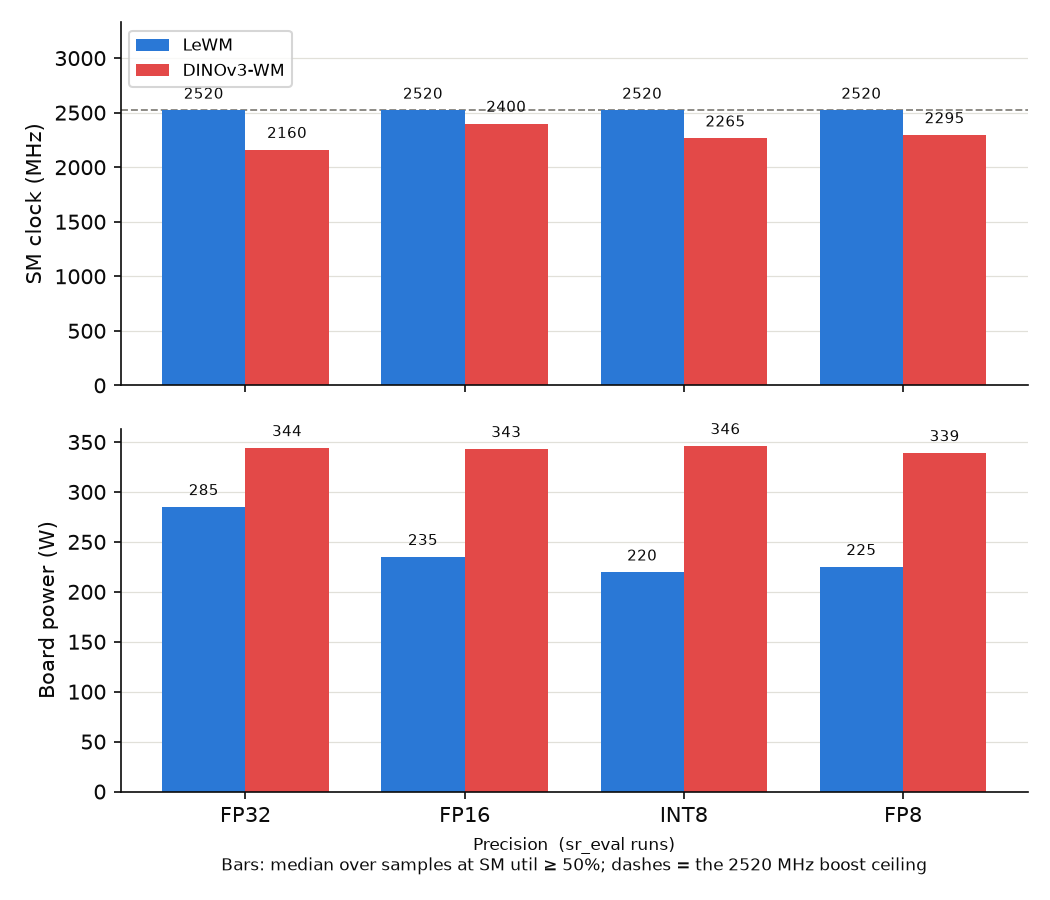
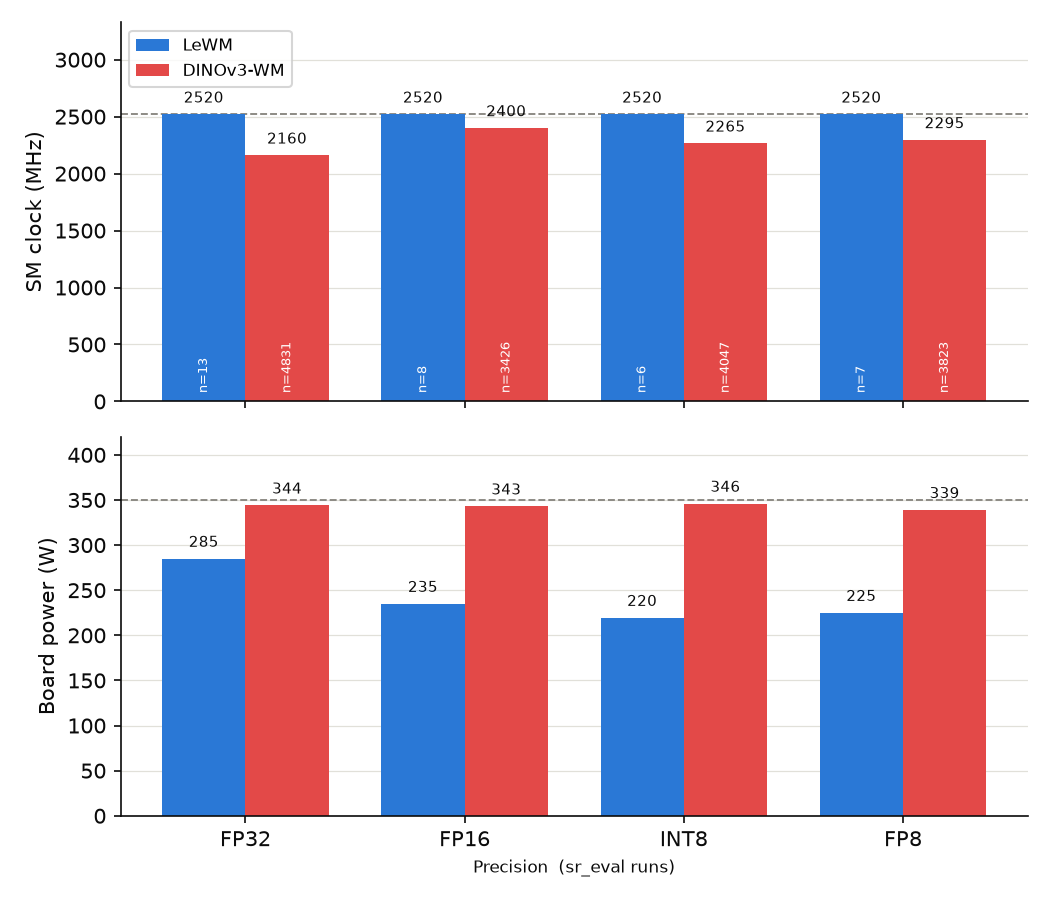
feat(phase7): record confound outcomes in SPEC/architecture/PLAN; power-limit line + busy-n labels on the throttle diag, captionless figures

diff --git a/src/clock_norm.py b/src/clock_norm.py
@@ -36,6 +36,11 @@ The rescaling **over-corrects** (memory-bound and host/Python time do not scale 
 that is the point: the normalized figure is the **maximum plausible correction**, a bound beside
 the measured value, never a point estimate and never a replacement.
 
+On the recorded Phase-5 data the overhead surface is unresolvable by construction for DINO — its
+overhead share of the cycle (1−p ≈ 0.01–0.03) sits below the cycle-vs-component clock mismatch
+(Δf/f_cmp ≈ 0.04–0.07) — so its derived overhead rows flip negative, and LeWM's are blank (component
+runs too short for the 1 Hz sampler). Expected output, not a defect: architecture.md §11.
+
 Which run's clock normalizes which latency follows where the latency was measured: per-cycle rides
 the SR eval-shim run (`*.sr_eval.dmon.log`), the isolated encode/predict engine loops ride the
 benchmark run (`*.benchmark.dmon.log`), each selected at the render's calibration method
@@ -85,6 +90,10 @@ _STATISTIC = (
     f"util-conditioned median SM clock (dmon samples with SM util >= {CLOCK_BUSY_UTIL_PCT}%)"
 )
 _SCALING_MODEL = "T_ref = T * f_measured / f_ref"
+
+# L40S board power limit (W) — the cap the heavier track saturates and trades clock against.
+# Display-only reference line in the throttle diagnostic; it normalizes nothing.
+_POWER_LIMIT_W = 350
 
 # Where the committed display copy of the throttle plot lands (`reports/figs/`), resolved relative
 # to this file so the render does not depend on the working directory.
@@ -548,10 +557,14 @@ def plot_throttle(clocks: dict, run_type: str, out_dir: Path, method: str) -> Pa
 
     Two panels — **SM clock** (the confound) over **power** (its cause) — because the story is
     that the heavier track saturates the board power limit and trades clock for it while the
-    lighter track never approaches the limit. The `f_ref` boost ceiling is drawn as a reference
-    line, so "at the ceiling" vs "throttled below it" is readable without arithmetic. Bars use the
-    measured (util-conditioned) statistic; an UNMEASURED run is labelled as such rather than
-    plotted at some fallback value.
+    lighter track never approaches the limit. The `f_ref` boost ceiling and the board power limit
+    are each drawn as a reference line, so "at the ceiling" vs "throttled below it" and "pinned at
+    the cap" vs "never near it" are readable without arithmetic or knowing the L40S TDP. Bars use
+    the measured (util-conditioned) statistic; an UNMEASURED run is labelled as such rather than
+    plotted at some fallback value. Each measured clock bar carries its busy-sample count `n=…` —
+    the lighter track's eval-shim medians rest on an order of magnitude fewer samples than the
+    heavier track's, and the label keeps that visible instead of rendering both with equal
+    authority.
 
     Composite component-isolation runs are excluded, like everywhere else outside the isolation
     table (architecture.md §9)."""
@@ -567,7 +580,8 @@ def plot_throttle(clocks: dict, run_type: str, out_dir: Path, method: str) -> Pa
     ):
         for i, track in enumerate(report._TRACKS):
             xs = [j + (i - 0.5) * width for j in range(len(precs))]
-            vals = [_summary(clocks, track, p, run_type, method).get(field) for p in precs]
+            runs = [_summary(clocks, track, p, run_type, method) for p in precs]
+            vals = [r.get(field) for r in runs]
             ax.bar(
                 xs,
                 [v or 0.0 for v in vals],
@@ -576,7 +590,7 @@ def plot_throttle(clocks: dict, run_type: str, out_dir: Path, method: str) -> Pa
                 label=report._TRACK_DISPLAY[track],
                 zorder=2,
             )
-            for x, v in zip(xs, vals):
+            for x, v, run in zip(xs, vals, runs):
                 # Value-label every bar: the throttle is a low-tens-of-percent effect, so a
                 # zero-based axis (never truncated for bars) reads it as a small notch. The exact
                 # number belongs on the mark rather than in a truncated axis.
@@ -591,21 +605,35 @@ def plot_throttle(clocks: dict, run_type: str, out_dir: Path, method: str) -> Pa
                     fontsize=7,
                     color=report._MUTED if v is None else report._INK,
                 )
+                if field == "f_measured_mhz" and v is not None:
+                    # The busy-sample count behind the median, inside the bar: a 6-sample median
+                    # and a 4000-sample one must not read with equal authority.
+                    ax.annotate(
+                        f"n={run['n_busy']}",
+                        (x, 0),
+                        rotation=90,
+                        textcoords="offset points",
+                        xytext=(0, 4),
+                        ha="center",
+                        va="bottom",
+                        fontsize=6,
+                        color="white",
+                        zorder=3,
+                    )
         ax.set_ylabel(label)
         report._style(ax, grid_axis="y")
-    # The ceiling reference line; named in the xlabel caption rather than annotated in-plot, where
-    # it would collide with the value labels of the bars that sit ON the ceiling.
+    # The reference lines (boost ceiling, board power limit). Deliberately unexplained in-figure —
+    # the PNG carries no caption text (owner ruling, 2026-07-26); what the dashes and the n=…
+    # labels mean is documented here and in the disclosure prose, not on the figure.
     axes[0].axhline(CLOCK_F_REF_MHZ, color=report._MUTED, ls="--", lw=0.9, zorder=1)
-    # Headroom above the bars for the legend, so it never sits over a mark. The bar axis itself
-    # keeps its zero baseline — truncating it to dramatize the gap would overstate the confound.
+    axes[1].axhline(_POWER_LIMIT_W, color=report._MUTED, ls="--", lw=0.9, zorder=1)
+    # Headroom above the bars for the legend / the value labels of bars at the cap. The bar axes
+    # keep their zero baseline — truncating one to dramatize the gap would overstate the confound.
     axes[0].set_ylim(0, CLOCK_F_REF_MHZ * 1.32)
+    axes[1].set_ylim(0, _POWER_LIMIT_W * 1.2)
     axes[0].legend(fontsize=8, loc="upper left")
     axes[-1].set_xticks(range(len(precs)), [report._PREC_DISPLAY[p] for p in precs])
-    axes[-1].set_xlabel(
-        f"Precision  ({run_type} runs)\nBars: median over samples at SM util ≥ "
-        f"{CLOCK_BUSY_UTIL_PCT}%; dashes = the {CLOCK_F_REF_MHZ} MHz boost ceiling",
-        fontsize=8,
-    )
+    axes[-1].set_xlabel(f"Precision  ({run_type} runs)", fontsize=8)
     fig.tight_layout()
     path = Path(out_dir) / f"{run_type}_clock_diag.png"
     fig.savefig(path, dpi=150)

diff --git a/src/report.py b/src/report.py
@@ -642,7 +642,11 @@ def plot_speed_vs_sr(bench: dict, out_dir: Path, method: str = DEFAULT_CALIBRATI
 def plot_per_cycle_ratio(bench: dict, out_dir: Path) -> Path:
     """DINOv3-WM ÷ LeWM per-cycle p50 latency ratio per precision. RESULTS.md only, so NO figure
     title; one series → orange bars, no legend; zero baseline KEPT (truncating a ratio axis
-    misleads); each bar value-labelled so the 310-410× spread is exact rather than muted."""
+    misleads); each bar value-labelled so the 310-410× spread is exact rather than muted.
+
+    Measured values only, and no caveat text on the PNG (owner ruling, 2026-07-26): the bar-to-bar
+    (cross-precision) spread partly reflects the differential throttle (architecture.md §11), but
+    that caveat lives in the surrounding prose and the derived ratio table, never on the figure."""
     vals = {
         p: per_cycle_ratio(bench, p, "p50")
         for p in _PRECISIONS
@@ -671,7 +675,12 @@ def plot_component_breakdown(bench: dict, out_dir: Path, precision: str = "fp32"
     cycle time is kept in each panel title so the gap is not erased. Runtime-WEIGHTED (step mean ×
     CEM call counts) with overhead by subtraction. Each component is a LEADER-LINE callout (so the
     ~0% encoder sliver is still labelled), the callouts fanning outward per panel to avoid
-    collisions; callout text is black, leader lines grey."""
+    collisions; callout text is black, leader lines grey.
+
+    No caveat text on the PNG (owner ruling, 2026-07-26): the overhead slice's absolute ms is
+    measured on unlocked clocks and an overhead share below the run-to-run clock mismatch is
+    bounded small, not resolved (architecture.md §11) — that caveat lives in the surrounding
+    prose and the derived overhead table, never on the figure."""
     tracks = [t for t in _TRACKS if precision in bench.get(t, {})]
     decs = {t: decompose(bench[t][precision]) for t in tracks}
     segments = (("Encoder", "enc_cyc_ms"), ("Predictor", "pred_cyc_ms"), ("Overhead", "overhead_ms"))

diff --git a/PLAN.md b/PLAN.md
@@ -533,27 +533,29 @@ owner-authored** — CLAUDE renders tables/plots, never the prose. (SPEC §Execu
   clock-locked re-run is deferred (future work).
   → verify: SPEC §Execution Environment states the denial; no pod phase attempts a clock lock.
 
-- [ ] 🔴 **OWNER GATE — normalization construction + headline framing.** Owner fixes (a) the scaling
+- [x] 🔴 **OWNER GATE — normalization construction + headline framing.** Owner fixes (a) the scaling
   model (`T_ref = T × f_measured/f_ref`), reference clock `f_ref`, the per-run clock statistic feeding
   `f_measured` (e.g. util-conditioned median SM clock), and which time is clock-bound; and (b) whether
   the headline stays the measured stock-hardware ratio (with disclosure) or is reframed. CLAUDE builds
   the render only after sign-off.
   → verify: owner sign-off on the formula + `f_ref` + statistic + framing recorded **before** any
-  `*_normalized.derived.*` is written.
+  `*_normalized.derived.*` is written. (Sign-off 2026-07-25, recorded in `docs/architecture.md` §11 +
+  the `src.clock_norm` docstring; headline stays the measured ratio, with disclosure. First derived
+  render 2026-07-26.)
 
-- [ ] 🟢 **Throttle diagnostic.** `src/clock_norm.py` parses `gpu_logs/*.dmon.log` → per-run telemetry
+- [x] 🟢 **Throttle diagnostic.** `src/clock_norm.py` parses `gpu_logs/*.dmon.log` → per-run telemetry
   summary (SM/mem clock, power, temp, util medians + util-conditioned clock) and a differential-throttle
   plot (LeWM vs DINO, per precision) → `$STABLEWM_HOME/reports/phase5/gpu_logs/*_clock_diag.png`.
   → verify: plot renders from the saved `dmon` logs; the summary shows the lighter track at the boost
   ceiling and the heavier track throttled below it.
 
-- [ ] 🟢 **Harvest → `derived_clocks.json`.** `src/clock_norm.py` writes the owner-set per-run clock
+- [x] 🟢 **Harvest → `derived_clocks.json`.** `src/clock_norm.py` writes the owner-set per-run clock
   statistic + power per (track, precision, {sr_eval, benchmark}) to
   `$STABLEWM_HOME/reports/phase5/derived_clocks.json`. Read-only over `gpu_logs/`; `results.*.json`
   untouched.
   → verify: round-trips; one entry per (track, precision, run-type); values match the diagnostic.
 
-- [ ] 🟢 **Apply normalization → three surfaces.** `src/clock_norm.py` applies the owner-set formula to
+- [x] 🟢 **Apply normalization → three surfaces.** `src/clock_norm.py` applies the owner-set formula to
   the canonical latencies (`results.*.json` via `report.load_results` + `derived_clocks.json`):
   (a) cross-model per-cycle ratio `R` and normalized `R′`; (b) within-model FP32→FP16→INT8→FP8 deltas
   at a common clock; (c) overhead recomputed with component-loop and cycle latencies at a matched clock.
@@ -562,7 +564,7 @@ owner-authored** — CLAUDE renders tables/plots, never the prose. (SPEC §Execu
   `test_report_never_rewrites_canonical_results`); each derived table names itself `derived` + the
   `f_ref`/statistic used.
 
-- [ ] 🟢 **Throttle plot → committed display copy.** `src/clock_norm.py` copies the cycle-run
+- [x] 🟢 **Throttle plot → committed display copy.** `src/clock_norm.py` copies the cycle-run
   throttle plot to `reports/figs/` (display-only exception); the canonical copy stays under
   `$STABLEWM_HOME/reports/phase5/gpu_logs/`.
   → verify: `reports/figs/sr_eval_clock_diag.png` matches the volume copy byte-for-byte.
@@ -570,18 +572,16 @@ owner-authored** — CLAUDE renders tables/plots, never the prose. (SPEC §Execu
 - [ ] 🔴 **OWNER-ONLY — disclosure write-up.** The limitations doc is **owner-authored**, not
   generated (SPEC §Implementation Boundaries): framing the confound is a judgement about the result,
   not a render of it. CLAUDE supplies the inputs only (`derived_clocks.json`, the three
-  `*_normalized.derived.<method>.txt` tables, the throttle plot) and writes no prose.
-  Content the write-up must cover: clocks unlockable (attempt + denial), the differential throttle
-  (one-sided on the heavier track), the cross-model ratio's clock-normalized bound, the within-model
-  spread caveat, the unresolvable-overhead rows, the pod-conditional-under-virtualization caveat, and
-  the owner-set framing. Persisted to `$STABLEWM_HOME/reports/phase5/`.
-  → verify: disclosure names the confound, the bound, and the framing; measured numbers remain the
-  headline; normalized clearly labelled `derived`; artifact on the volume (not git-only).
+  `*_normalized.derived.<method>.txt` tables, the throttle plot) and writes no prose. Persisted to
+  `$STABLEWM_HOME/reports/phase5/`.
+  → verify: artifact on the volume (not git-only); measured numbers remain the headline; normalized
+  clearly labelled `derived`.
 
 **Verify:** owner sign-off on the normalization construction + framing recorded; `derived_clocks.json`
 + `*_normalized.derived.*` written additively with `results.*.json` / `.entropy.txt` untouched; the
-`R`/`R′` bound reported on all three surfaces; throttle plot committed to `reports/figs/`; the
-owner-authored disclosure write-up covers the confound + the bound + the framing.
+`R`/`R′` bound reported on surfaces (a)/(b) and, on surface (c), the bound **or its resolvability
+verdict** where the overhead share is below the clock mismatch; throttle plot committed to
+`reports/figs/`; the owner-authored disclosure write-up covers the confound + the bound + the framing.
 
 ---
 

diff --git a/docs/architecture.md b/docs/architecture.md
@@ -453,17 +453,30 @@ end for DINO, which is why the bound is one-sided too (`R′ ≤ R`).
 
 **What the three surfaces show.** The cross-model ratio moves by a low-tens-of-percent on a ratio of
 two-to-three orders of magnitude, so the architectural asymmetry survives the whole bracket. The
-within-model precision deltas can move in **either** direction (a speedup shrinks when the FP32
-baseline was the more throttled run), so that is a caveat on the *spread*, not a signed bias. The
+within-model precision deltas can in principle move in **either** direction (a speedup shrinks when
+the FP32 baseline was the more throttled run, grows when the quantized run was); on the recorded
+data the shift is one-sided — DINO's FP32 baseline was the most-throttled run of all (2160 MHz), so
+every DINO speedup shrinks under normalization and the measured within-model speedups are the upper
+ends of their brackets, while LeWM's are unchanged (every LeWM cycle run held the ceiling). The
 **overhead decomposition is the surface the confound actually damages**: `overhead = cycle − enc −
-pred` differences terms measured on two different runs at two different clocks, and the term is only
-resolvable where its share of the cycle `(1−p)` exceeds the clock mismatch `Δf/f_cmp`. For DINO
-`1−p ≈ 0.01–0.03` against a mismatch of `0.04–0.07`, so the derived overhead flips negative — the
-honest reading is that DINO's absolute overhead floor is *not resolvable* on unlocked clocks, only
-bounded as small. That negative value is surfaced, never clamped.
+pred` differences terms measured on two different runs at two different clocks — and that mismatch
+is **systematic, not incidental**: the isolated component loops are short bursts (tens of seconds)
+on a cool, freshly idle GPU, while the eval-shim cycle run is a multi-hour steady state pinned at
+the board power limit, so the component run always holds the higher clock (`f_cmp > f_cyc`). The
+term is only resolvable where its share of the cycle `(1−p)` exceeds the clock mismatch `Δf/f_cmp`.
+For DINO `1−p ≈ 0.01–0.03` against a mismatch of `0.04–0.07`, so every derived overhead flips the
+same way (negative) rather than scattering around zero — the honest reading is that DINO's absolute
+overhead floor is *not resolvable* on unlocked clocks, only bounded as small. That negative value is
+surfaced, never clamped. LeWM's derived overhead rows are blank for a different reason: its
+component loops finish inside one or two 1 Hz `dmon` samples, so their clocks are **unmeasured** —
+an instrumentation limit of the 1 Hz sampler, not a render failure; a future run would lengthen the
+component loops or sample faster.
 
 **Why derived numbers stay additive.** Measured is canonical and remains the headline (owner
-framing). The derived artifacts are separately named `*_normalized.derived.<method>.txt` +
+framing). The confound is also **endogenous** — the heavier track throttles the GPU through its own
+power draw — so the measured value is what the workload experiences on stock hardware, which is part
+of why it stays canonical; the normalized bound answers the narrower iso-clock question. The derived
+artifacts are separately named `*_normalized.derived.<method>.txt` +
 `derived_clocks.json`, and `src/clock_norm.py` never writes `results.*.json`, `sr.json`, or a
 measured table — the same read-only discipline as the `src.report` re-render (CLAUDE §8). A
 clock-locked re-run remains the correct fix and is recorded as deferred future work.

diff --git a/SPEC.md b/SPEC.md
@@ -266,10 +266,13 @@ is the width on **both** the predictor's input and output (dim-preserving; not s
   The observer never touches seeds, samples, or the plan. (`docs/architecture.md` §6.)
 - **The clock-state confound is bounded and disclosed, not assumed away.** The observed throttle is
   **differential** — the heavier track power-throttles to a lower SM clock while the lighter track
-  holds the boost ceiling — so it does **not** cancel in the ratio. The logged telemetry is used to
+  holds the boost ceiling — so it does **not** cancel in the ratio. It is also **endogenous**: the
+  throttle is driven by the benchmarked workload's own power draw, not by ambient conditions, so the
+  measured numbers are what that workload experiences on stock hardware, while the normalized bound
+  isolates the architecture at a common clock. The logged telemetry is used to
   quantify it on the three surfaces it touches — the cross-model per-cycle ratio, the within-model
   precision deltas, and the component/overhead decomposition — and the result is reported as a
-  limitation alongside the measured numbers. (`docs/architecture.md` §6.)
+  limitation alongside the measured numbers. (`docs/architecture.md` §11.)
 - **Clock-normalized figures are DERIVED and a BOUND.** Any clock-normalized latency is a `1/f_sm`
   rescaling that **over-corrects** — memory-bound and host-overhead time do not scale with SM clock
   — so it is reported as the **maximum plausible correction**, a bound beside the measured value,
@@ -441,7 +444,11 @@ What the finished project must satisfy (ordered build steps live in `PLAN.md`).
   in the ratio — the study discloses the confound and bounds it from the logged telemetry: the
   cross-model ratio plus its clock-normalized bound; the within-model precision deltas re-expressed
   at a common clock; and the overhead decomposition recomputed with components and cycle at matched
-  clock. The derived numbers, tables, and throttle plot are **CLAUDE-owned plumbing**; the
+  clock. On the overhead surface a corrected value only exists where the overhead's measured share
+  of the cycle (1−p) exceeds the cycle-vs-component clock mismatch; below that threshold the
+  required disclosure is the **resolvability verdict** — not resolvable under unlocked clocks,
+  bounded as small — never a corrected number. The derived numbers, tables, and throttle plot are
+  **CLAUDE-owned plumbing**; the
   **limitations write-up that interprets them is OWNER-authored** (§Implementation Boundaries), since
   how the confound is framed is a judgement about the result, not a render of it. Both are **durable
   artifacts** persisted to the network volume like the other headline outputs (never git-only), and
